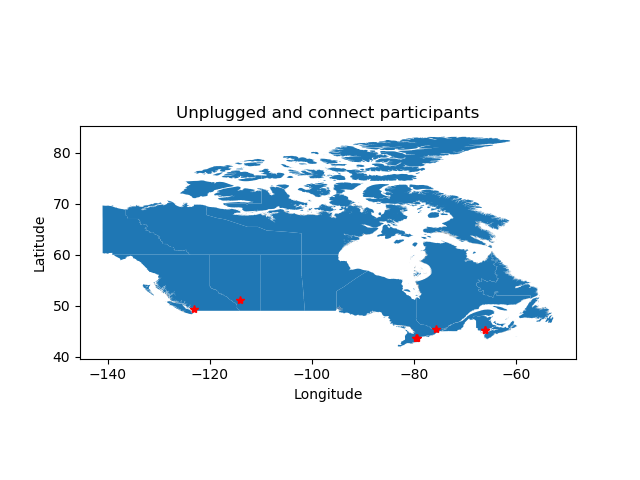
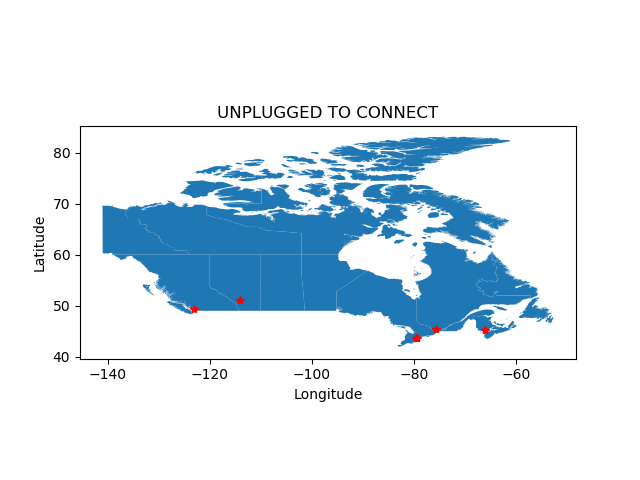
fixed spelling

Changed region(s): [[0.2812, 0.2188, 0.75, 0.25]]

diff --git a/Visualization/shp.py b/Visualization/shp.py
@@ -49,7 +49,7 @@ shp = geopandas.read_file(r"C:\Users\Mahesh\Documents\GitHub\GiftTheCode2018\Vis
 
 shp.plot(linestyle="-.", linewidth=0.1);
 plt.plot(df.Longitude,df.Latitude,'r*')
-plt.title("Unplugged and connect participants")
+plt.title("UNPLUGGED TO CONNECT")
 plt.xlabel("Longitude")
 plt.ylabel("Latitude")
 plt.savefig("map.png")
